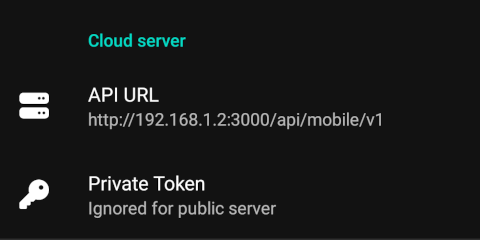
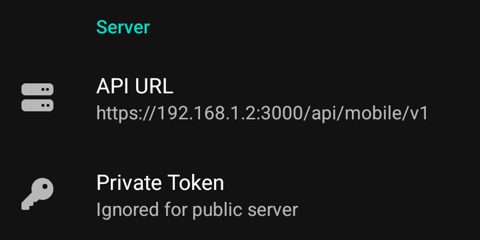
[docs] add dashboard and Android app screenshots across the site
Only 12 of 67 pages carried any image, and services/web-dashboard.md
described six screens with none at all.

Adds 24 screenshots:

- 9 Web Dashboard captures (1280x800, light theme) covering login,
  overview, message list, message detail, compose, devices, webhooks,
  API tokens and device settings. Captured from a running instance
  against a mock upstream serving only synthetic fixtures, so no real
  account data is present: login, phone numbers, device IDs, device
  name, webhook URL and message bodies were all substituted before each
  screenshot was taken. Wired into services/web-dashboard.md,
  services/index.md, getting-started/index.md and the dashboard blog
  post.

- 15 Android app captures (480px wide, status and nav bars cropped)
  taken from an emulator running SMSGate v1.0.0. These close pages that
  previously described a screen in prose with no visual at all:
  sending-messages rate limits and working hours, logging, multi-device
  tap paths, reading-messages, webhook retry policy, ping settings and
  the cloud-server login code. Credential values in the cloud-server
  and local-server captures are redacted.

Also fixes four pre-existing image issues:

- features-ping-settings.png rendered at 480px on public-cloud-server
  but 400px on features/ping; pinned to 400.
- The settings-management figure was the only one in the repo without
  width and align, so it rendered left-aligned.
- local-server-arch.png (846x636) had no width and overflowed the
[…]

diff --git a/docs/services/web-dashboard.md b/docs/services/web-dashboard.md
@@ -49,6 +49,11 @@ A hosted instance is available at **`https://dashboard.sms-gate.app`** — no in
 2. Enter your SMSGate **username** and **password** (found in the Android app under Cloud Server settings)
 3. You will be taken to the **Dashboard** with an overview of your gateway activity
 
+<figure markdown>
+  ![Dashboard Login](../assets/dashboard/dashboard-login.png){ width="800" align=center }
+  <figcaption>Sign in with your SMSGate credentials</figcaption>
+</figure>
+
 !!! warning "Self-Hosted Users"
     If you run a [Private Server](../getting-started/private-server.md), deploy your own instance of the dashboard alongside it — see the [Self-Hosted Deployment](#self-hosted-deployment) section below.
 
@@ -62,6 +67,11 @@ The main dashboard provides an aggregated view of your gateway:
 - **Message statistics**: sent, pending, and failed message counts
 - **Charts and trends**: visual charts showing message volume and delivery trends over time
 - **Real-time updates**: live toast notifications for incoming messages, state changes, and device status updates
+
+<figure markdown>
+  ![Dashboard Overview](../assets/dashboard/dashboard-home.png){ width="800" align=center }
+  <figcaption>Gateway statistics, message volume trend, and live activity feed</figcaption>
+</figure>
 
 ### 💬 Message Management
 
@@ -78,13 +88,38 @@ The main dashboard provides an aggregated view of your gateway:
 
 </div>
 
+<figure markdown>
+  ![Message List](../assets/dashboard/dashboard-messages.png){ width="800" align=center }
+  <figcaption>Message list with state, device, and date filters</figcaption>
+</figure>
+
+<figure markdown>
+  ![Message Compose Form](../assets/dashboard/dashboard-compose-sms.png){ width="800" align=center }
+  <figcaption>Compose form for sending an SMS from the browser</figcaption>
+</figure>
+
+<figure markdown>
+  ![Message Detail View](../assets/dashboard/dashboard-messages-detail.png){ width="800" align=center }
+  <figcaption>Message detail with per-recipient states and transition timeline</figcaption>
+</figure>
+
 ### 📱 Device Management
 
 View all registered devices with online/offline status badges and last-seen timestamps. Devices with a public key show an **E2E** badge and, when available, their key version. The badge indicates key availability; messages composed in the dashboard are not end-to-end encrypted. Remove devices with a confirmation dialog.
 
+<figure markdown>
+  ![Devices Management](../assets/dashboard/dashboard-devices.png){ width="800" align=center }
+  <figcaption>Registered devices with status and last-seen timestamps</figcaption>
+</figure>
+
 ### 🌐 Webhook Management
 
 Create, list, and delete webhooks for events. Supports both individual and batch webhook delivery modes — batch webhooks group multiple events into a single payload for high-throughput scenarios.
+
+<figure markdown>
+  ![Webhooks Management](../assets/dashboard/dashboard-webhooks.png){ width="800" align=center }
+  <figcaption>Registered webhooks and their event types</figcaption>
+</figure>
 
 ### 🔑 API Token Management
 
@@ -93,6 +128,11 @@ Generate JWT tokens with fine-grained scope selection directly from the UI:
 - **Permission scopes** across messages, devices, webhooks, settings, logs, and tokens
 - **Configurable TTL** (time-to-live)
 - **Copy to clipboard** and **revoke** by token ID (JTI)
+
+<figure markdown>
+  ![API Token Generator](../assets/dashboard/dashboard-tokens.png){ width="800" align=center }
+  <figcaption>API token generator with scope selection</figcaption>
+</figure>
 
 For details on available scopes, see the [Authentication Guide](../integration/authentication.md#available-scopes).
 
@@ -108,6 +148,11 @@ Manage device settings through a tabbed form interface:
 | Webhooks   | Retry count, internet requirement                   |
 | Gateway    | Cloud URL                                           |
 | Encryption | End-to-end encryption settings                      |
+
+<figure markdown>
+  ![Device Settings Form](../assets/dashboard/dashboard-settings.png){ width="800" align=center }
+  <figcaption>Tabbed device settings interface</figcaption>
+</figure>
 
 !!! warning "Sensitive Settings are Device-Local Only"
     `webhooks.signing_key`, `gateway.private_token`, and `encryption.passphrase` are device-local only and cannot be managed through the dashboard. They never transit the cloud or a private server. Set them via the device's local UI (:gear: Settings) or the local API directly on the device.
@@ -169,12 +214,12 @@ The application is configured via environment variables or an optional YAML file
 
 ### Environment Variables
 
-| Variable               | Default                                       | Description                                                                                                                                                  |
-| ---------------------- | --------------------------------------------- | ------------------------------------------------------------------------------------------------------------------------------------------------------------ |
-| `HTTP__ADDRESS`        | `127.0.0.1:3000`                              | HTTP server bind address                                                                                                                                     |
-| `GATEWAY__URL`         | `https://api.sms-gate.app/3rdparty/v1`        | SMSGate 3rd Party API endpoint                                                                                                                               |
+| Variable        | Default                                       | Description                                                                                                                                                  |
+| --------------- | --------------------------------------------- | ------------------------------------------------------------------------------------------------------------------------------------------------------------ |
+| `HTTP__ADDRESS` | `127.0.0.1:3000`                              | HTTP server bind address                                                                                                                                     |
+| `GATEWAY__URL`  | `https://api.sms-gate.app/3rdparty/v1`        | SMSGate 3rd Party API endpoint                                                                                                                               |
 | `WEBHOOKS__URL` | `http://localhost:3000/api/webhooks/callback` | Public callback URL for webhook events. The default is for local development only; external deployments must override it with a publicly reachable HTTPS URL |
-| `CONFIG_PATH`          | —                                             | Path to optional YAML configuration file                                                                                                                     |
+| `CONFIG_PATH`   | —                                             | Path to optional YAML configuration file                                                                                                                     |
 
 ### Example YAML Config
 

diff --git a/docs/faq/general.md b/docs/faq/general.md
@@ -73,6 +73,11 @@ curl -X POST "https://api.sms-gate.app/messages?skipPhoneValidation=true"
 
     The random delay can be introduced between messages by specifying a minimum and maximum time. This helps to reduce the likelihood of messages being flagged as spam by simulating a more human-like sending pattern.
 
+    <figure markdown>
+      ![Message Delays And Limits Settings](../assets/app-settings-messages-delays-limits.png){ width="400" align=center }
+      <figcaption>Delays, seconds and Limits, period and messages count</figcaption>
+    </figure>
+
 === "📉 Message Limits"
 
     **Settings Path**:  
@@ -89,6 +94,11 @@ curl -X POST "https://api.sms-gate.app/messages?skipPhoneValidation=true"
     :gear: Settings → Messages → "If SIM number is not specified"
 
     The app provides a feature to rotate between [multiple SIM cards](../features/multi-sim.md#sim-card-rotation) automatically, avoiding reaching SIM limits.
+
+    <figure markdown>
+      ![Messages Settings](../assets/app-settings-messages.png){ width="400" align=center }
+      <figcaption>Messages section with the SIM selection, retention and delays</figcaption>
+    </figure>
 
 === "🕐 Working Hours"
 
@@ -129,6 +139,11 @@ graph TD
 === "Any mode"
 
     Irrespective of the mode, you can register a `system:ping` webhook to monitor the device's online status. This webhook will notify your server about the status of the app at user-defined intervals, set within the app's Settings on the device. This feature offers a proactive approach to track connectivity and ensure the device is functioning as expected across any operational mode.
+
+    <figure markdown>
+      ![Ping Settings](../assets/app-settings-ping.png){ width="400" align=center }
+      <figcaption>Ping interval set in the app Settings</figcaption>
+    </figure>
 
     !!! warning "Caution"
         Using the ping feature will increase battery usage. It's important to balance the need for frequent status updates with the impact on device battery life, especially if the device is expected to operate for extended periods without charging.

diff --git a/docs/features/settings-management.md b/docs/features/settings-management.md
@@ -10,8 +10,8 @@ Device settings can be managed through the app's user interface or programmatica
     The primary way to manage device settings is through the Settings tab within the app. This provides a user-friendly interface for configuring various parameters.
 
     <figure markdown>
-      ![Settings UI](../assets/settings-ui.png)
-      <figcaption>Device settings interface</figcaption>
+      ![Settings UI](../assets/app-settings-root.png){ width="400" align=center }
+      <figcaption>Settings tab with the per-section sub-screens</figcaption>
     </figure>
 
 === ":material-monitor-dashboard: Dashboard UI"
@@ -108,6 +108,11 @@ Controls how the app monitors for incoming SMS messages.
 | Setting                             | Type    | Default | Description                                                                                                                                                                                                                                                      |
 | ----------------------------------- | ------- | ------- | ---------------------------------------------------------------------------------------------------------------------------------------------------------------------------------------------------------------------------------------------------------------- |
 | `receiver.content_provider_enabled` | boolean | `true`  | When enabled, the app also monitors the SMS content provider for incoming messages as a fallback for carriers that intercept the `SMS_RECEIVED` broadcast. Disable if you experience duplicate webhook events and your carrier delivers the broadcast correctly. |
+
+<figure markdown>
+  ![Inbox Settings](../assets/app-settings-inbox.png){ width="400" align=center }
+  <figcaption>Inbox settings with Content Provider Monitoring and message retention</figcaption>
+</figure>
 
 !!! note "Restart Required"
     Changes to receiver settings require an app restart to take effect.

diff --git a/docs/features/webhooks.md b/docs/features/webhooks.md
@@ -259,6 +259,11 @@ In Cloud and Private modes, please allow some time for the webhooks list to sync
     </center>
     You can copy the webhook ID by clicking on the row.
 
+    <figure markdown>
+      ![Registered Webhooks Empty State](../assets/app-webhooks-registered-empty.png){ width="400" align=center }
+      <figcaption>Registered Webhooks list before any webhook is added</figcaption>
+    </figure>
+
 !!! note "Webhook Registration Notification"
     When a new `sms:received` webhook is registered, the app displays a notification on the device, ensuring immediate awareness of active webhooks and facilitating quick security reviews.
 
@@ -459,6 +464,16 @@ Your server will receive a POST request with a payload like:
 #### Retry Policy
 
 The app implements an exponential backoff retry strategy: it waits 10 seconds before the first retry, then 20 seconds, 40 seconds, and so on, doubling the interval each time. By default, the app will retry 14 times (approximately 2 days) before giving up. You can specify a custom retry count in the app's **Settings > Webhooks**.
+
+<figure markdown>
+  ![Webhooks Settings](../assets/app-settings-webhooks.png){ width="400" align=center }
+  <figcaption>Webhooks settings with the retry count and signing key</figcaption>
+</figure>
+
+<figure markdown>
+  ![Webhook Queue Empty State](../assets/app-webhook-queue-empty.png){ width="400" align=center }
+  <figcaption>Webhook Queue when no entries are pending</figcaption>
+</figure>
 
 ### Step 6: Deregister a Webhook 🗑
 

diff --git a/docs/getting-started/local-server.md b/docs/getting-started/local-server.md
@@ -3,7 +3,7 @@
 ## ⚙ Local Server Mode
 
 <div align="center">
-    <img src="/assets/local-server-arch.png" alt="Architecture of the Local Server mode">
+    <img src="/assets/local-server-arch.png" alt="Architecture of the Local Server mode" width="600">
 </div>
 
 This mode is ideal for sending messages from a local network, enabling direct communication between the device and your app on the same Wi‑Fi or Ethernet network without requiring internet access.
@@ -18,6 +18,11 @@ This mode is ideal for sending messages from a local network, enabling direct co
 
     !!! note "Public IP Accessibility"
         The displayed public IP address is only accessible from the internet if your device has a public IP assigned by your ISP and your firewall/router allows connections to the specified port (with port forwarding configured). Many ISPs use Carrier-Grade NAT (CG‑NAT), which prevents direct internet access to devices behind shared addresses. See also: [FAQ — Local Server](../faq/local-server.md).
+
+    <figure markdown>
+      ![Local Server Settings](../assets/app-settings-local-server.png){ width="400" align=center }
+      <figcaption>Local Server settings with the port, credentials and JWT options</figcaption>
+    </figure>
 
 5. To send a message from within the local network, execute a `curl` command like the following. Be sure to replace `<username>`, `<password>`, and `<device_local_ip>` with the actual values provided in the previous step:
 

diff --git a/docs/features/sending-messages.md b/docs/features/sending-messages.md
@@ -442,6 +442,11 @@ The primary way to manage rate-limiting and delays is through the app's user int
         - Specify the maximum number of messages that can be sent within a specified period (minute, hour, or day).
         - When the limit is reached, the app will pause sending messages until the limit period resets.
 
+<figure markdown>
+  ![Message Delays And Limits Settings](../assets/app-settings-messages-delays-limits.png){ width="400" align=center }
+  <figcaption>Delays, seconds and Limits, period and messages count</figcaption>
+</figure>
+
 !!! note "Multiple Recipients"
     When a request includes multiple `phoneNumbers`, it is treated as a single logical message. Delay and rate‑limit evaluations occur once per request, not per recipient. On a single device, the SMS for all recipients are sent back‑to‑back within the same processing slot (not truly simultaneous).
 
@@ -607,6 +612,11 @@ When working hours are enabled:
 | Enable working hours | Toggle to activate the feature              | Off     |
 | Start time           | Window opening time (HH:mm, 24-hour format) | 09:00   |
 | End time             | Window closing time (HH:mm, 24-hour format) | 19:00   |
+
+<figure markdown>
+  ![Working Hours Settings](../assets/app-settings-working-hours.png){ width="400" align=center }
+  <figcaption>Working Hours toggle with the start and end time window</figcaption>
+</figure>
 
 ### Window Types
 

diff --git a/docs/features/logging.md b/docs/features/logging.md
@@ -25,6 +25,11 @@ There are three ways to access logs:
 2.  **Local Mode API**: In Local mode, the app exposes the [`/logs` endpoint](https://capcom6.github.io/android-sms-gateway/#/System/get-logs), which returns a list of log entries with a filter by period.
 3.  **CLI**: Use the SMSGate CLI tool to retrieve logs for a specific time range. The CLI supports filtering by date and multiple output formats.
 
+<figure markdown>
+  ![Logs List](../assets/app-logs-list.png){ width="400" align=center }
+  <figcaption>Recent log entries listed after opening View</figcaption>
+</figure>
+
 !!! tip
     **CLI Examples**
     
@@ -45,6 +50,11 @@ There are three ways to access logs:
 ## ⚙ Log Settings
 
 Log settings are located on the Settings tab of the app in the "Logs" section. The only available option is "Delete after, days," which sets the log entries' lifetime. You can set the number of days after which log entries will be deleted.
+
+<figure markdown>
+  ![Logs Settings](../assets/app-settings-logs.png){ width="400" align=center }
+  <figcaption>Logs section with the View and Delete after, days entries</figcaption>
+</figure>
 
 !!! important
     It is strongly recommended to enable this option to avoid device memory exhaustion.

diff --git a/docs/features/multi-device.md b/docs/features/multi-device.md
@@ -24,6 +24,11 @@ The dialog cannot be dismissed by tapping outside; tap **Cancel** to abort witho
     4. Confirm to join the account
     5. Wait for Cloud Server information in the Home tab
 
+    <figure markdown>
+      ![Home Tab Server Configuration](../assets/app-home-unconfigured.png){ width="400" align=center }
+      <figcaption>Home tab with Cloud server enabled and the credentials still empty</figcaption>
+    </figure>
+
 === ":material-lock-reset: One-Time Code"
     !!! tip
         Use this method for untrusted devices, which will only have limited access to the account.
@@ -35,6 +40,11 @@ The dialog cannot be dismissed by tapping outside; tap **Cancel** to abort witho
        The generator is visible only while the device is registered.
     2. Wait for code to appear
     3. Long press to copy
+
+    <figure markdown>
+      ![Cloud Server Settings](../assets/app-settings-cloud-server.png){ width="400" align=center }
+      <figcaption>Login Code control used to sign in on another device</figcaption>
+    </figure>
 
     **Apply Code 📲**
 

diff --git a/docs/faq/webhooks.md b/docs/faq/webhooks.md
@@ -82,6 +82,11 @@ By default, webhooks require internet access and will wait until it's available 
 1. Open app → **Settings** tab
 2. Navigate to **Webhooks** section
 3. Toggle off "Require Internet connection"
+
+<figure markdown>
+  ![Webhooks Settings](../assets/app-settings-webhooks.png){ width="400" align=center }
+  <figcaption>Webhooks settings with the internet connection toggle, retries and signing key</figcaption>
+</figure>
     
 !!! warning "Tradeoff"    
     Disabling internet access requirement may affect the reliability of webhook delivery for external endpoints
@@ -98,6 +103,11 @@ By default, webhooks require internet access and will wait until it's available 
    }
    ```
 3. Webhooks without `device_id` will apply to all devices
+
+<figure markdown>
+  ![Webhooks List](../assets/webhooks-list.png){ width="480" align=center }
+  <figcaption>Registered webhooks listed in the app</figcaption>
+</figure>
 
 ## :material-test-tube: Using HTTP Webhooks in Local Development
 

diff --git a/docs/getting-started/index.md b/docs/getting-started/index.md
@@ -10,6 +10,11 @@ To begin with any of these modes, you must first install the SMS Gateway for And
 
 For a graphical approach, the [Web Dashboard](../services/web-dashboard.md) at `https://dashboard.sms-gate.app` provides a browser-based interface for managing messages, devices, webhooks, and settings.
 
+<figure markdown>
+  ![Dashboard Overview](../assets/dashboard/dashboard-home.png){ width="800" align=center }
+  <figcaption>Web Dashboard overview of gateway activity</figcaption>
+</figure>
+
 Device settings (message limits, ping intervals, working hours, etc.) can also be configured programmatically via the [Settings Management API](../features/settings-management.md), enabling automated setup across multiple devices in Cloud/Private mode, or on a single device in Local mode, without manual UI interaction.
 
 For more details on how to use the API, please consult the [API](../integration/api.md) section.

diff --git a/docs/blog/posts/2026-07-30-web-dashboard.md b/docs/blog/posts/2026-07-30-web-dashboard.md
@@ -58,7 +58,17 @@ For real-time updates, the dashboard registers webhooks on the SMSGate server fo
 2. Log in with your SMSGate credentials (from the Android app under Cloud Server settings)
 3. Start managing your gateway from the browser
 
+<figure align="center">
+  <img src="/assets/dashboard/dashboard-login.png" alt="Dashboard Login" width="800">
+  <figcaption>Sign in with your SMSGate credentials</figcaption>
+</figure>
+
 No registration, no installation — just your existing credentials.
+
+<figure align="center">
+  <img src="/assets/dashboard/dashboard-home.png" alt="Dashboard Overview" width="800">
+  <figcaption>Gateway statistics, message volume trend, and live activity feed</figcaption>
+</figure>
 
 ## 🖥 Self-Hosting
 

diff --git a/docs/faq/private-server.md b/docs/faq/private-server.md
@@ -16,6 +16,11 @@ The API URL **must** include the full path `/api/mobile/v1`. Using just the base
 !!! danger "Common Mistake"
     The cloud server uses URL rewriting where `api.sms-gate.app` already contains the `api` part. With a private server, you must include `/api` in the path.
 
+<figure markdown>
+  ![Private Server Settings](../assets/private-server.png){ width="400" align=center }
+  <figcaption>Android app configuration for private server mode</figcaption>
+</figure>
+
 ### 2. HTTPS Requirement
 
 The Android app **requires HTTPS** for all communications with your private server unless you use an insecure build variant. Using HTTP will result in connection failures.
